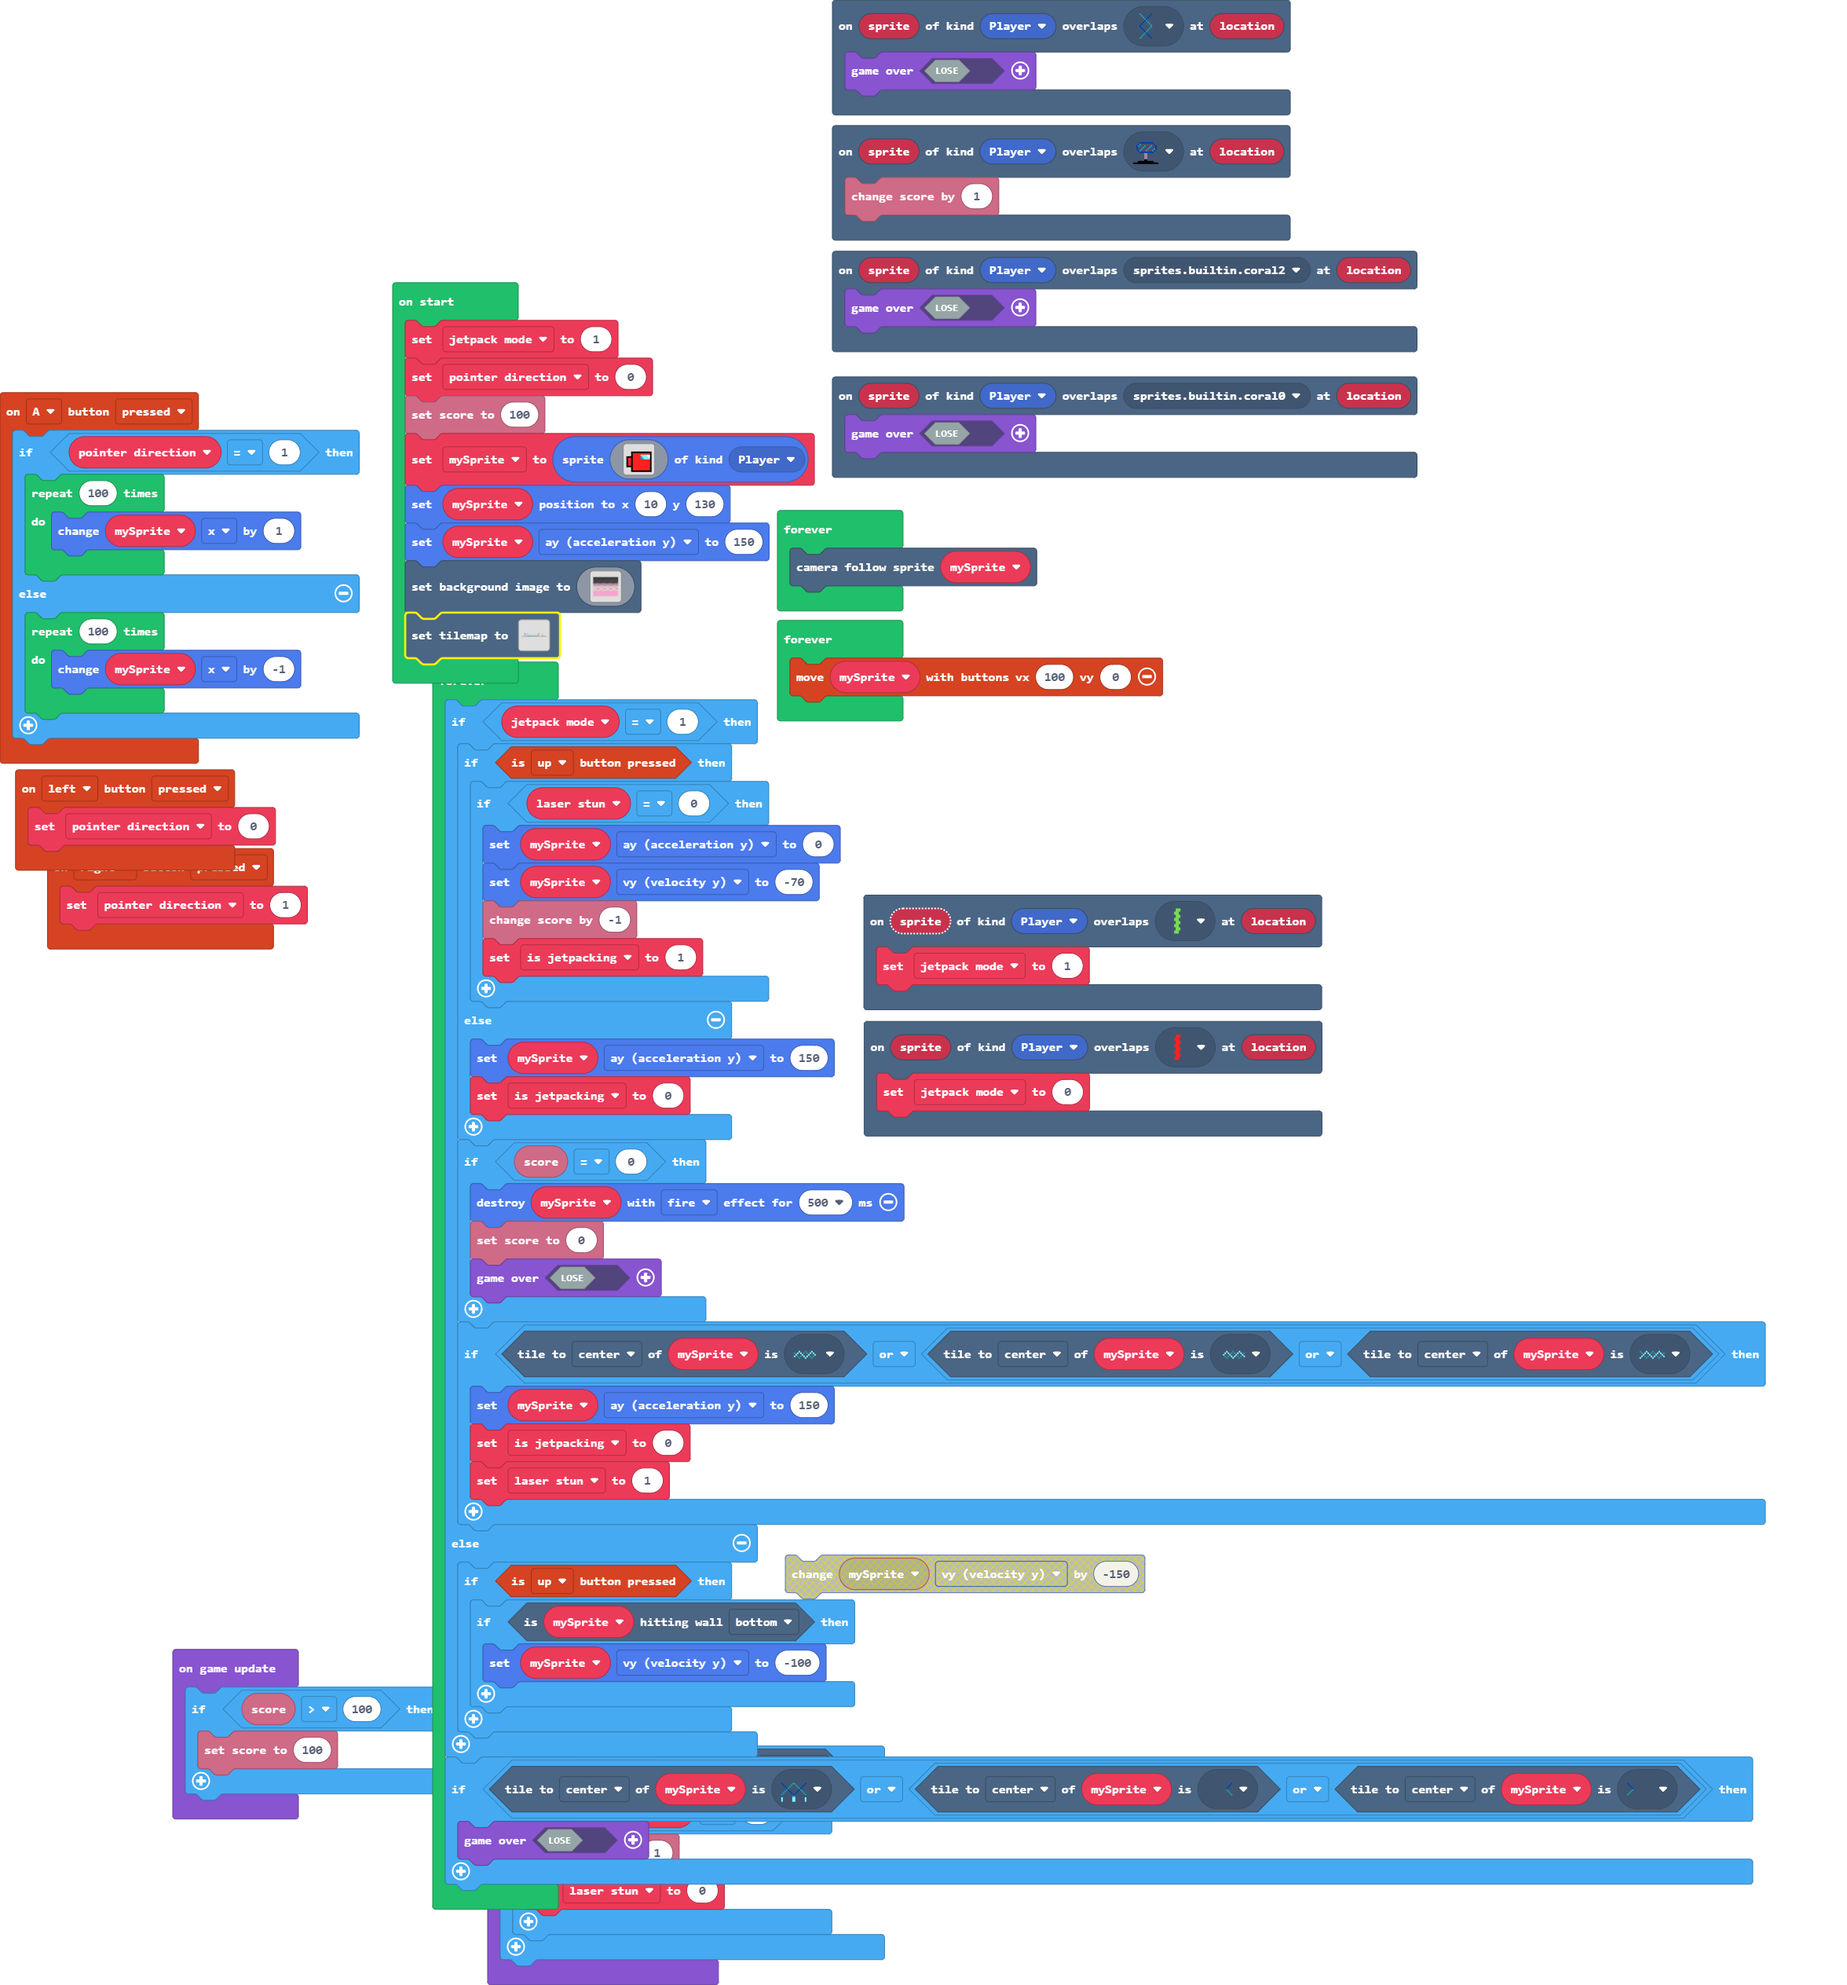
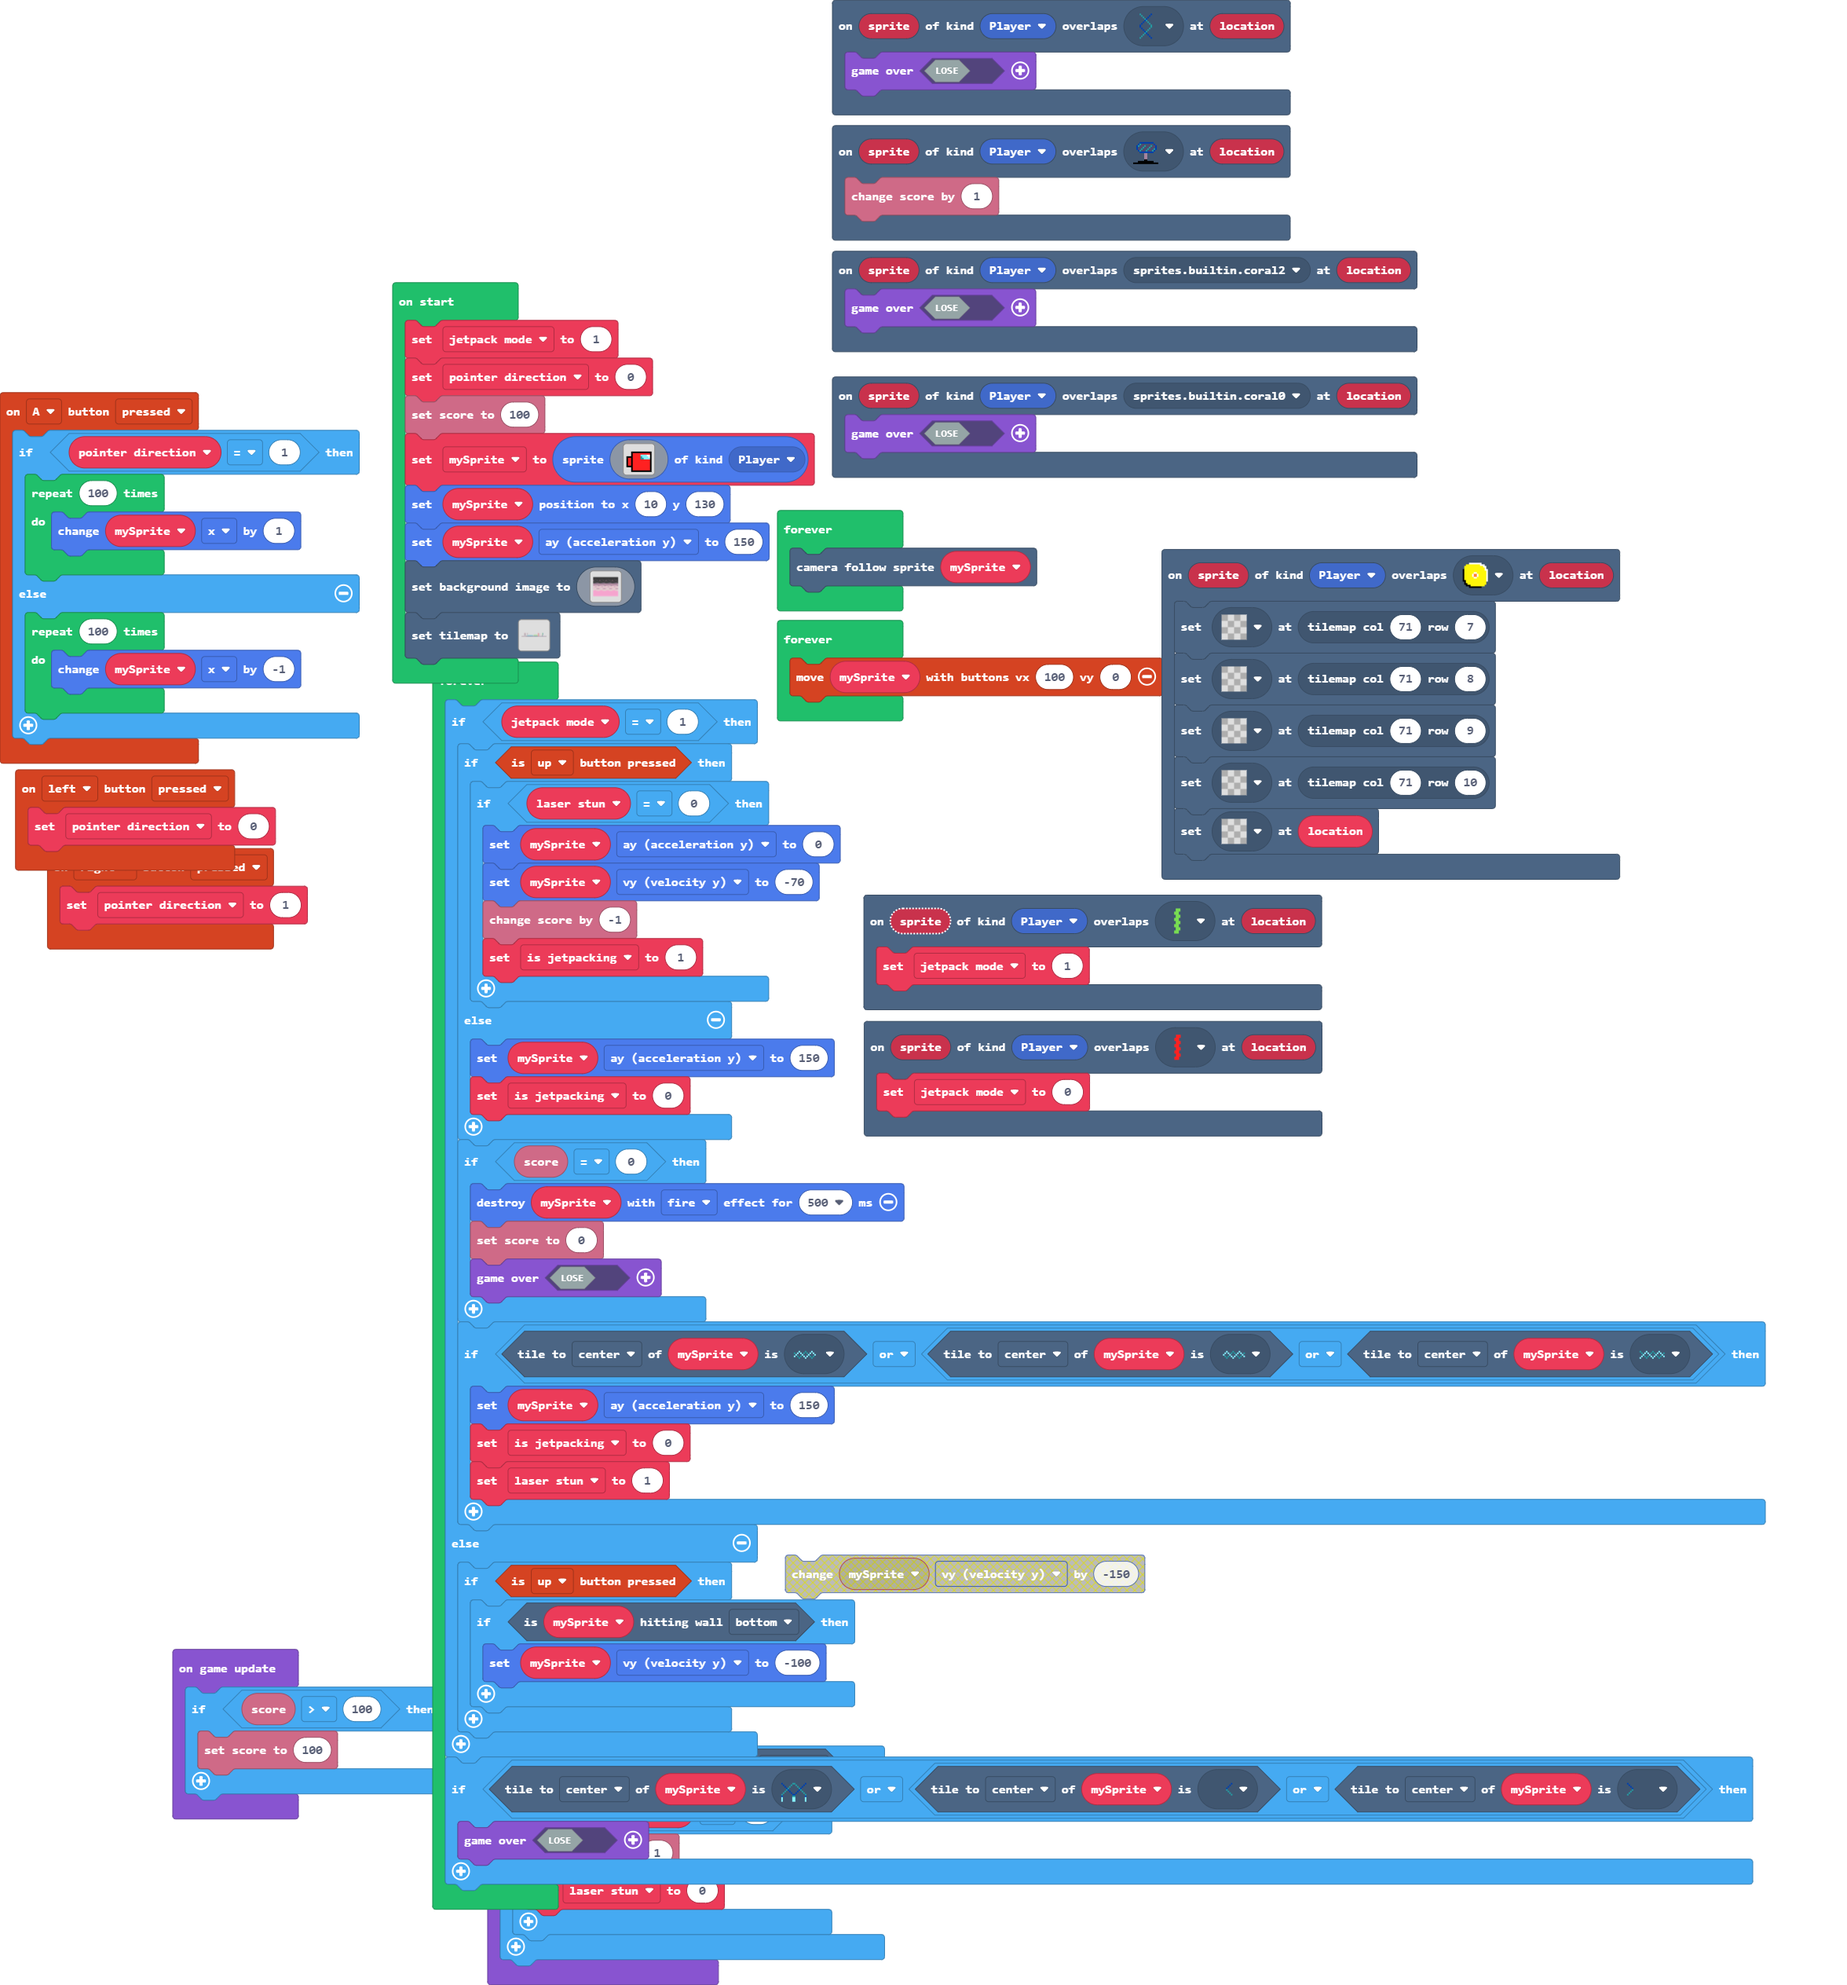
i bit more development for the level

Changed region(s): [[0.6207, 0.2778, 0.9001, 0.463], [0.2173, 0.3087, 0.2483, 0.3395]]

diff --git a/tilemap.g.ts b/tilemap.g.ts
@@ -36,28 +36,11 @@ namespace myTiles {
     export const tile16 = image.ofBuffer(hex``);
     //% fixedInstance jres blockIdentity=images._tile
     export const tile17 = image.ofBuffer(hex``);
+    //% fixedInstance jres blockIdentity=images._tile
+    export const tile18 = image.ofBuffer(hex``);
 
     helpers._registerFactory("tilemap", function(name: string) {
         switch(helpers.stringTrim(name)) {
-            case "level1":
[1 lines of base64/hex data omitted]
-..........2..2......2.................................................................
-..........2..2......2.......................................222.......................
-..........2..2......2.................................................................
-..........2..2......2......................................222........................
-..........2..2......2.................................................................
-..........2..2......2.......................................222.......................
-..........2..2......2................................................22222............
-..........2..2.............................................222........................
-..........2..2........................................................................
-....................2.....2.....2.....2.....................222.......................
-......................................................................................
-22222222222222222222222222222222222222222222222222222222222222222222222222222222222222
-......................................................................................
-......................................................................................
-......................................................................................
-......................................................................................
-`, [myTiles.transparency16,sprites.builtin.forestTiles25,myTiles.tile2,myTiles.tile3,myTiles.tile4,myTiles.tile1,sprites.dungeon.floorDark2,myTiles.tile5,myTiles.tile6,myTiles.tile8,myTiles.tile9,myTiles.tile10,myTiles.tile13,myTiles.tile14,sprites.builtin.oceanDepths5,myTiles.tile15,myTiles.tile16,sprites.builtin.oceanSand3,sprites.builtin.oceanSand2,sprites.builtin.oceanSand1,myTiles.tile17], TileScale.Sixteen);
             case "level2":
             case "level2":return tiles.createTilemap(hex`1000100000000000000000000000000000000000000000000000000000000000000000000000000000000000000000000000000000000000000000000000000000000000000000000000000000000000000000000000000000000000000000000000000000000000000000000000000000000000000000000000000000000000000000000000000000000000000000000000000000000000000000000000000000000000000000000000000000000000000000000000000000000000000000000000000000000000000000000000000000000000000000000000000000000000000000000000000000000000000000000000000000000000000000000000000000000000`, img`
 . . . . . . . . . . . . . . . . 
@@ -77,6 +60,44 @@ namespace myTiles {
 . . . . . . . . . . . . . . . . 
 . . . . . . . . . . . . . . . . 
 `, [myTiles.transparency16], TileScale.Sixteen);
+            case "level3":
+            case "level3":return tiles.createTilemap(hex`1000100000000000000000000000000000000000000000000000000000000000000000000000000000000000000000000000000000000000000000000000000000000000000000000000000000000000000000000000000000000000000000000000000000000000000000000000000000000000000000000000000000000000000000000000000000000000000000000000000000000000000000000000000000000000000000000000000000000000000000000000000000000000000000000000000000000000000000000000000000000000000000000000000000000000000000000000000000000000000000000000000000000000000000000000000000000000`, img`
+. . . . . . . . . . . . . . . . 
+. . . . . . . . . . . . . . . . 
+. . . . . . . . . . . . . . . . 
+. . . . . . . . . . . . . . . . 
+. . . . . . . . . . . . . . . . 
+. . . . . . . . . . . . . . . . 
+. . . . . . . . . . . . . . . . 
+. . . . . . . . . . . . . . . . 
+. . . . . . . . . . . . . . . . 
+. . . . . . . . . . . . . . . . 
+. . . . . . . . . . . . . . . . 
+. . . . . . . . . . . . . . . . 
+. . . . . . . . . . . . . . . . 
+. . . . . . . . . . . . . . . . 
+. . . . . . . . . . . . . . . . 
+. . . . . . . . . . . . . . . . 
+`, [myTiles.transparency16], TileScale.Sixteen);
+            case "level1":
[1 lines of base64/hex data omitted]
+..........2..2......2.................................................................
+..........2..2......2.......................................222.......................
+..........2..2......2.................................................................
+..........2..2......2......................................222........................
+..........2..2......2.................................................................
+..........2..2......2.......................................222.......................
+..........2..2......2................................................22222............
+..........2..2.............................................222........................
+..........2..2........................................................................
+....................2.....2.....2.....2.....................222.......................
+......................................................................................
+22222222222222222222222222222222222222222222222222222222222222222222222222222222222222
+......................................................................................
+......................................................................................
+......................................................................................
+......................................................................................
+`, [myTiles.transparency16,sprites.builtin.forestTiles25,myTiles.tile2,myTiles.tile3,myTiles.tile4,myTiles.tile1,sprites.dungeon.floorDark2,myTiles.tile5,myTiles.tile6,myTiles.tile8,myTiles.tile9,myTiles.tile10,myTiles.tile13,myTiles.tile14,sprites.builtin.oceanDepths5,myTiles.tile15,myTiles.tile16,sprites.builtin.oceanSand3,sprites.builtin.oceanSand2,sprites.builtin.oceanSand1,myTiles.tile17,myTiles.tile18], TileScale.Sixteen);
         }
         return null;
     })
@@ -118,6 +139,8 @@ namespace myTiles {
             case "tile16":return tile16;
             case "myTile15":
             case "tile17":return tile17;
+            case "myTile16":
+            case "tile18":return tile18;
         }
         return null;
     })

diff --git a/main.ts b/main.ts
@@ -21,6 +21,13 @@ controller.left.onEvent(ControllerButtonEvent.Pressed, function () {
 scene.onOverlapTile(SpriteKind.Player, sprites.builtin.coral2, function (sprite, location) {
     game.over(false)
 })
+scene.onOverlapTile(SpriteKind.Player, assets.tile`myTile16`, function (sprite, location) {
+    tiles.setTileAt(tiles.getTileLocation(71, 7), assets.tile`transparency16`)
+    tiles.setTileAt(tiles.getTileLocation(71, 8), assets.tile`transparency16`)
+    tiles.setTileAt(tiles.getTileLocation(71, 9), assets.tile`transparency16`)
+    tiles.setTileAt(tiles.getTileLocation(71, 10), assets.tile`transparency16`)
+    tiles.setTileAt(location, assets.tile`transparency16`)
+})
 controller.right.onEvent(ControllerButtonEvent.Pressed, function () {
     pointer_direction = 1
 })
